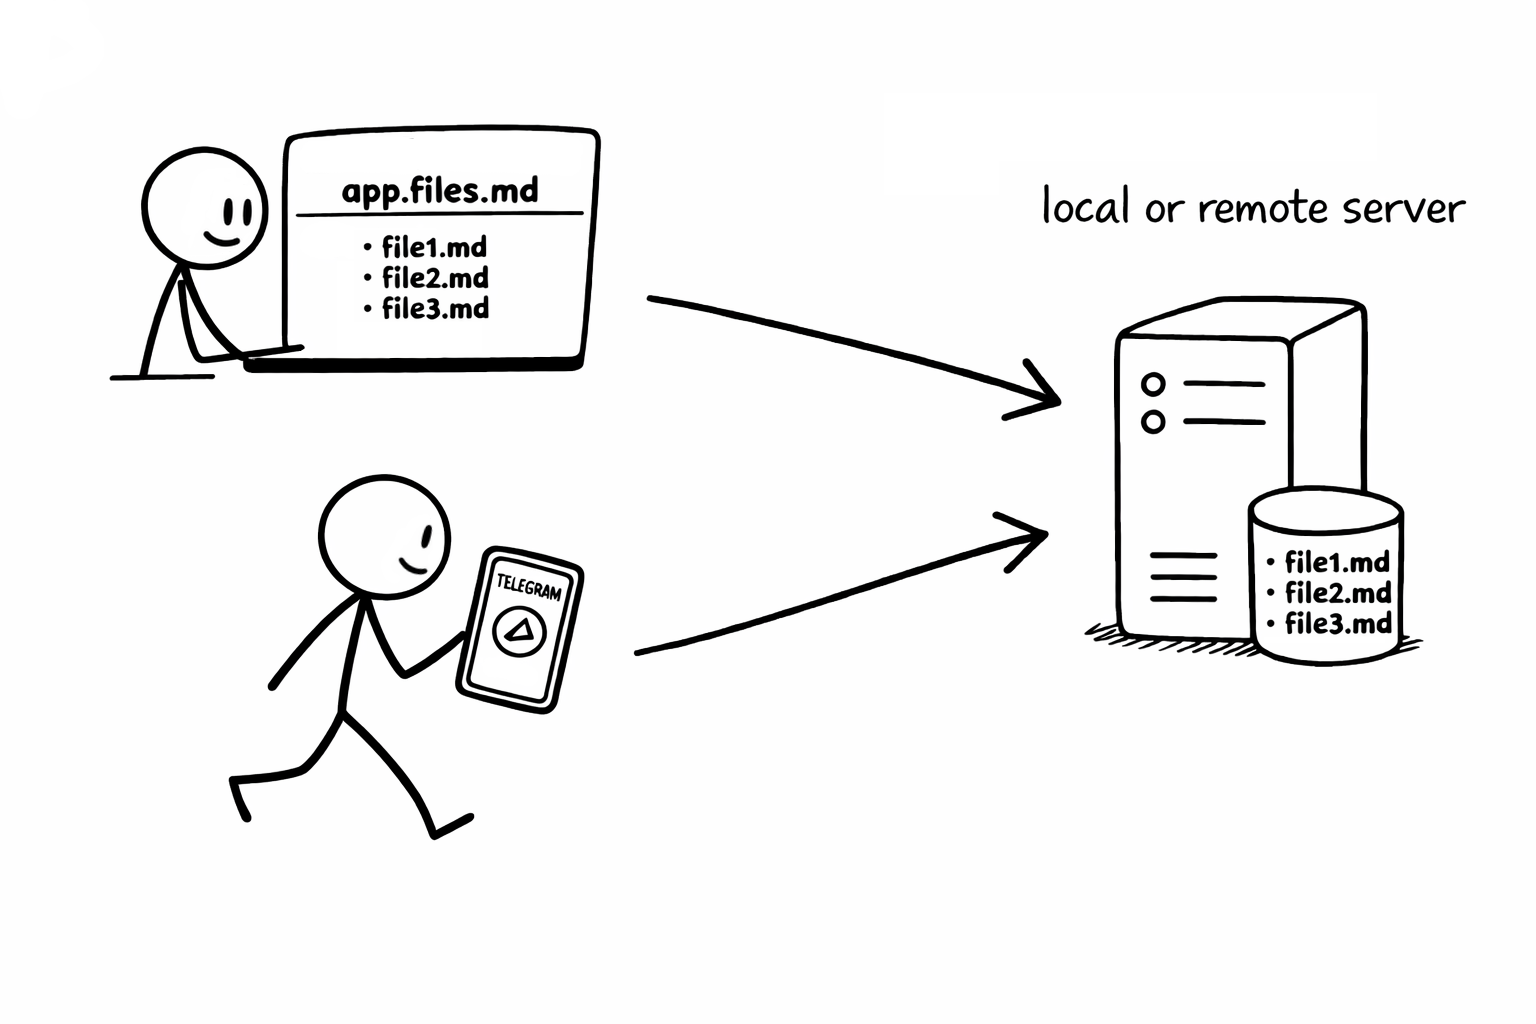
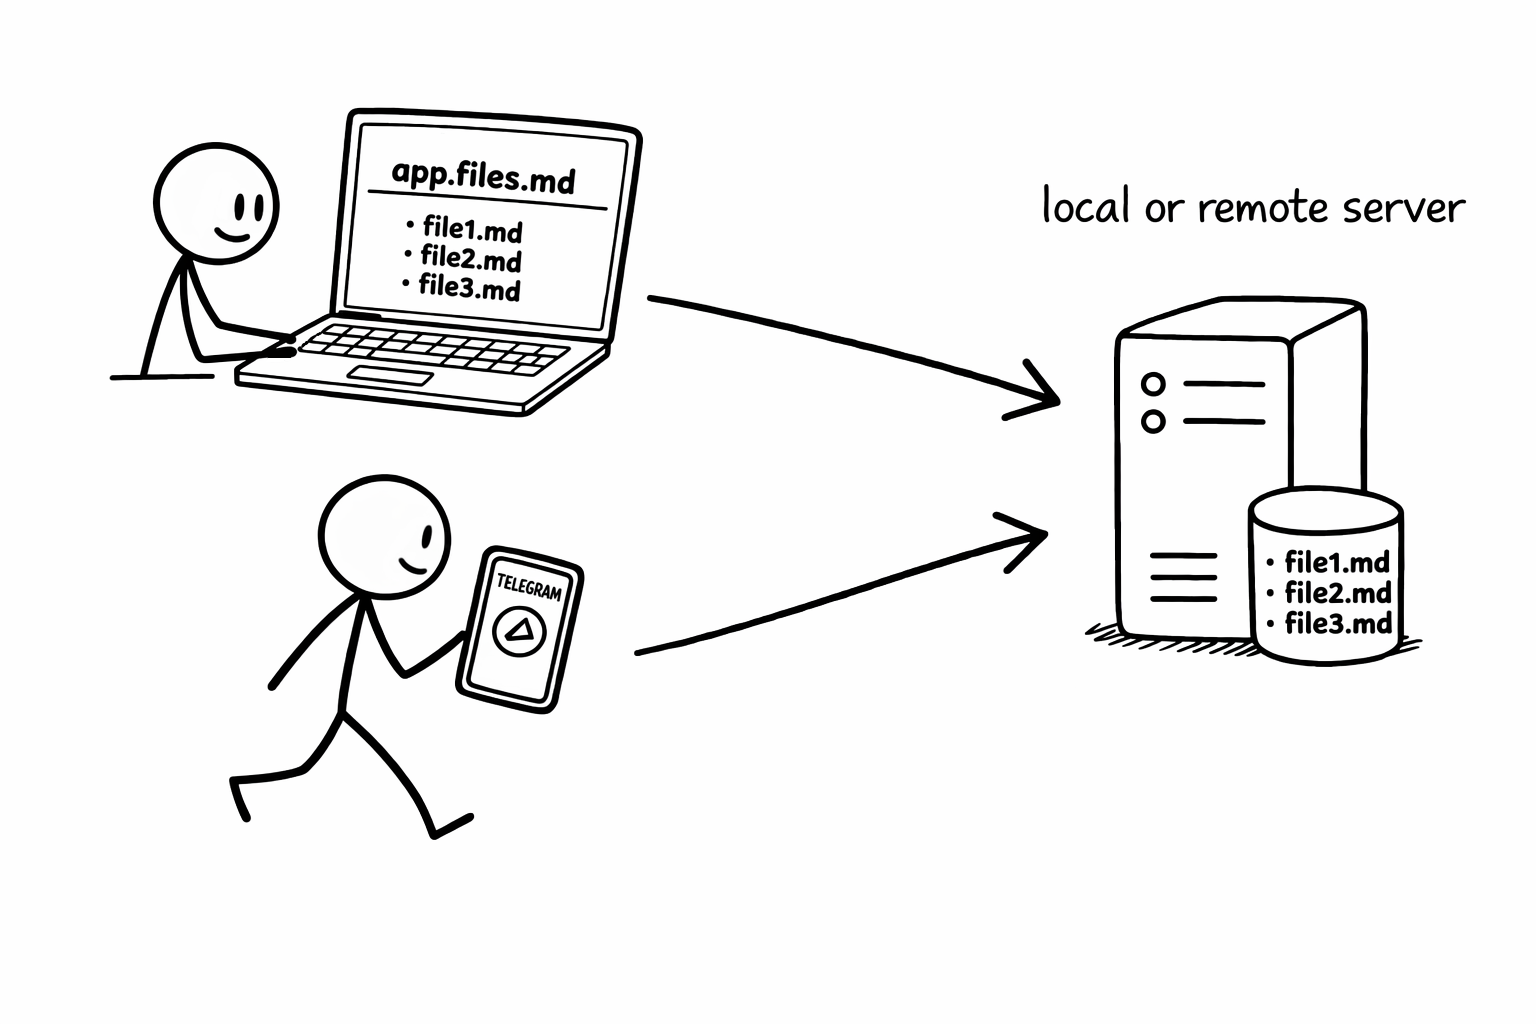
add transparency, refined readme

diff --git a/README.md b/README.md
@@ -24,11 +24,12 @@ Maybe. But this time:
 - Radically simple code. **Easy for one person or an LLM to understand**
 - Portable, no build systems, just open `web/index.html` 
 - Out of the box synchronization
-- The server is just one binary
+- The server is just one binary 
 - You can set up the server inside your protected network in seconds
+- You can also use iCloud/Dropbox/Google Drive for sync
 - Telegram Bot as an on-the-go entry point to your files
 
-## Are there enough features?
+## Are there enough features and plugins?
 Enough to do the real work.  
 
 1) I used `files.md` to grow my knowledge about Software Development and Brain.